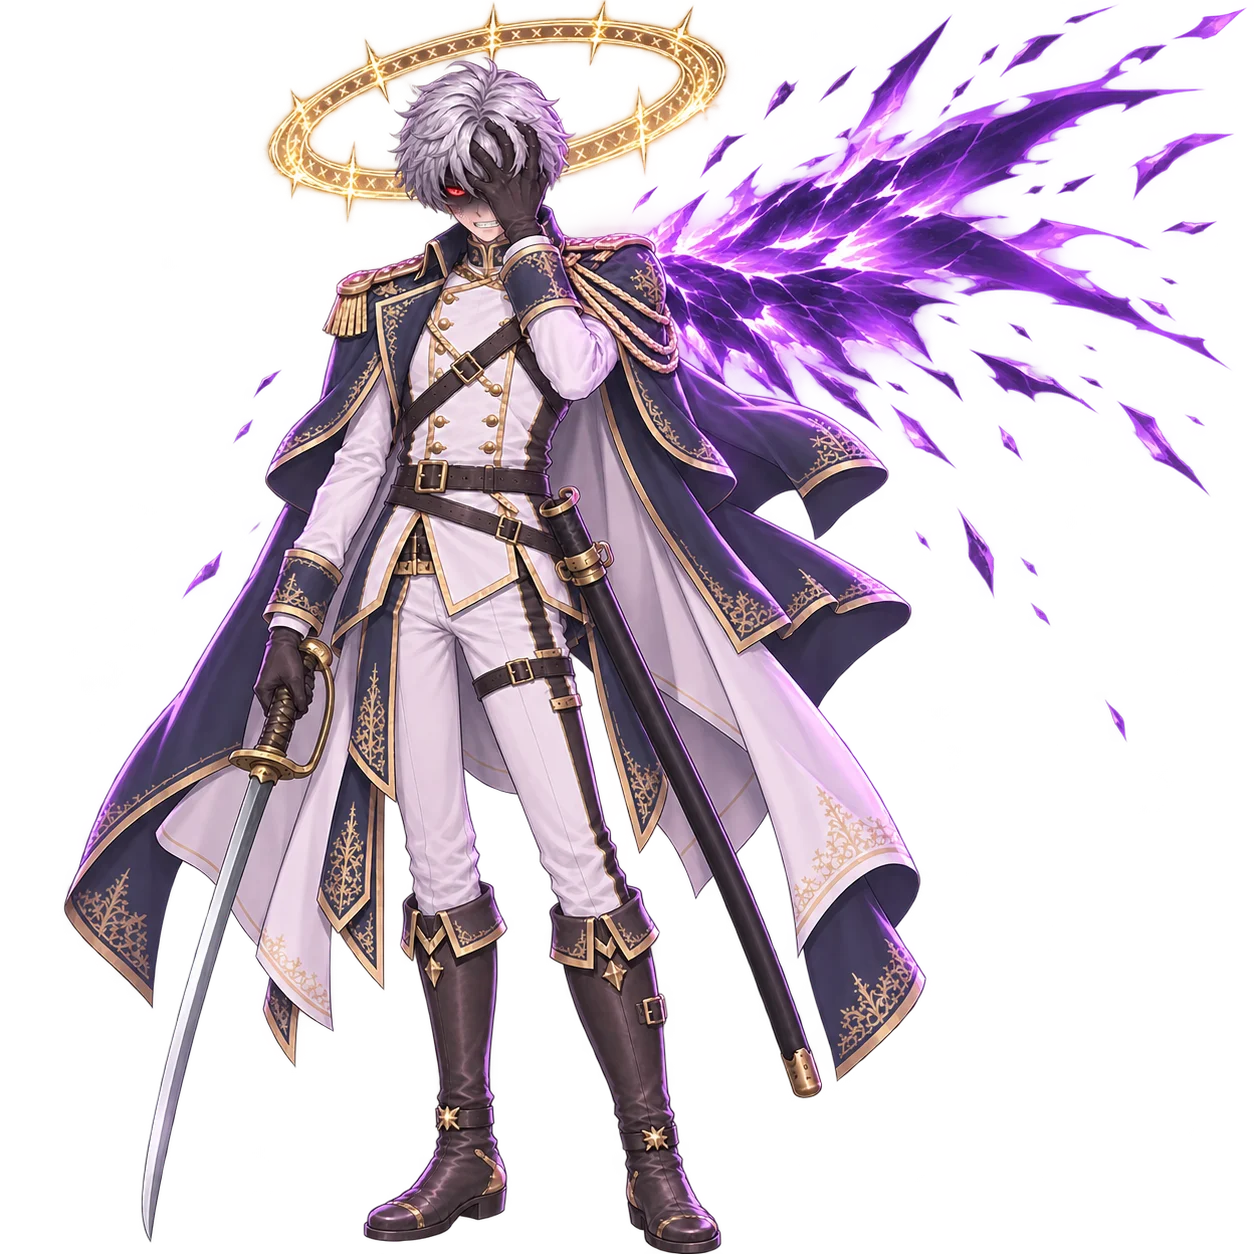
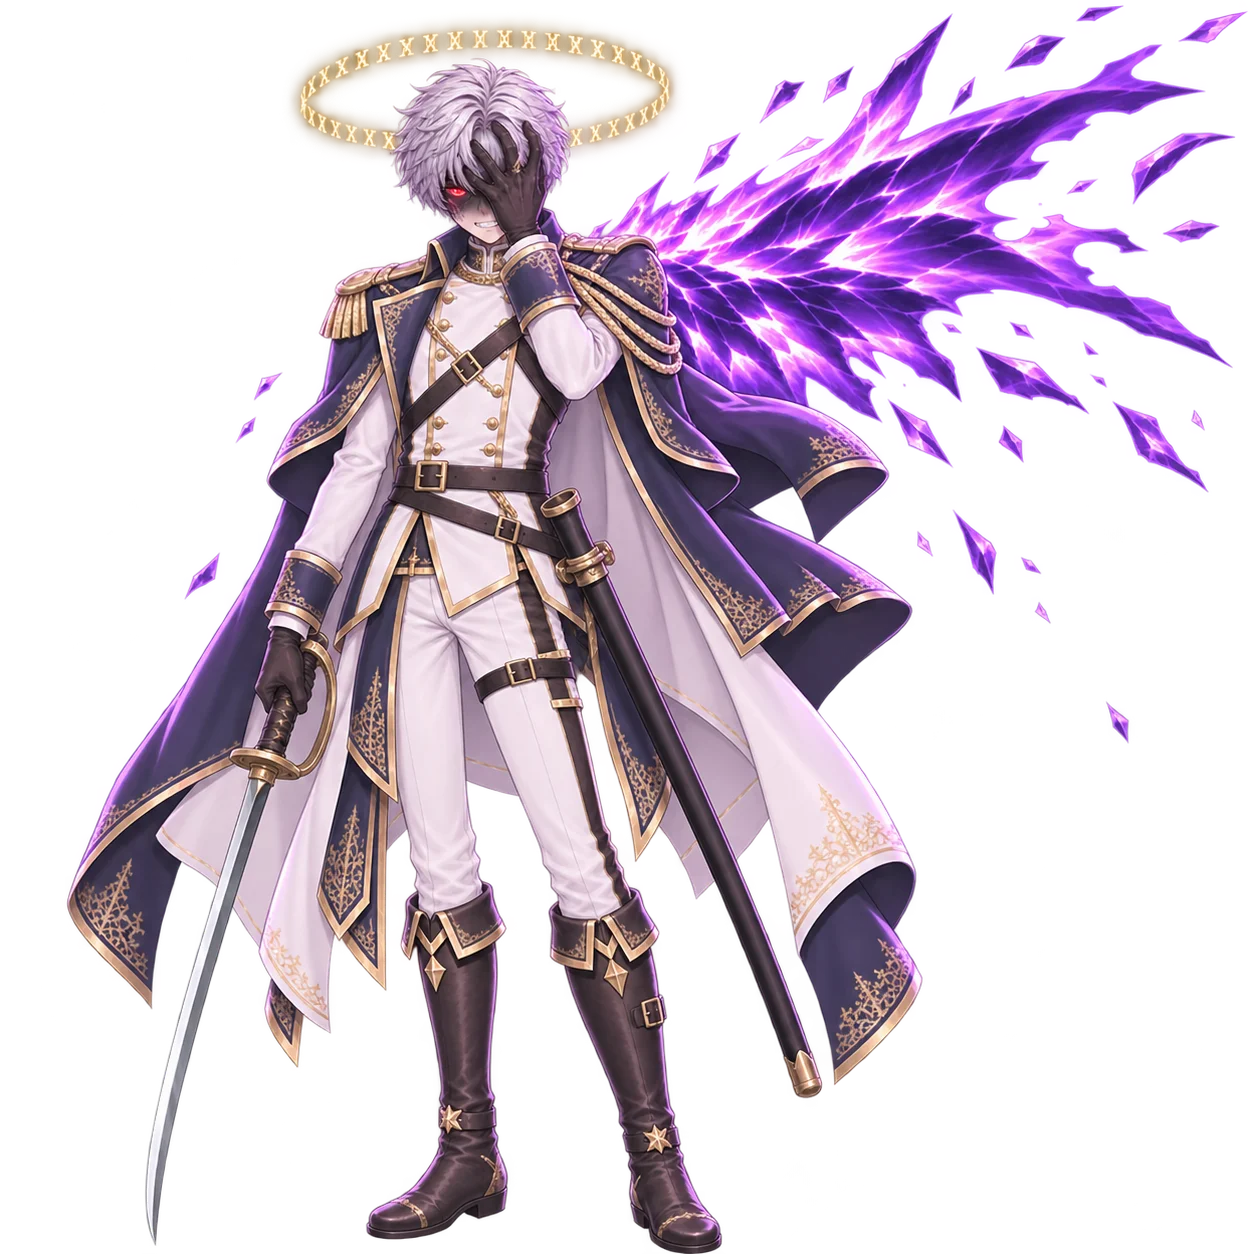
ver -2359 米夏 暴走：法環改成符文構成的天使環（照 NI CI）

diff --git a/index.html b/index.html
@@ -16,7 +16,7 @@
 <link rel="apple-touch-icon" href="resources/background/tivot_emblem.png?v=9220f8bb">
 <title>TIVOT</title>
 <!-- 全域鎖直向（真鎖 + 橫向擋板）；classic script，需在版面就緒前掛上 -->
-<script src="orientation.js?v=2358"></script>
+<script src="orientation.js?v=2359"></script>
 <!-- 離線包（ver -2256）：註冊 sw.js；主畫面 App 裡出現「下載離線包」鈕 -->
 <script src="offline.js"></script>
 <!-- ══ 效能探針・計數層（ver -850，Ray：「沒有辦法寫一個偵測程式進去看是什麼
@@ -65,74 +65,74 @@
 <script type="importmap">
 {
   "imports": {
-    "./audio.js": "./audio.js?v=2358",
-    "./config.js": "./config.js?v=2358",
-    "./i18n.js": "./i18n.js?v=2358",
-    "./main.js": "./main.js?v=2358",
-    "./offline.js": "./offline.js?v=2358",
-    "./orientation.js": "./orientation.js?v=2358",
-    "./state.js": "./state.js?v=2358",
-    "./sw.js": "./sw.js?v=2358",
-    "./telemetry.js": "./telemetry.js?v=2358",
-    "./modules/beatpick.js": "./modules/beatpick.js?v=2358",
-    "./modules/blink.js": "./modules/blink.js?v=2358",
-    "./modules/breath.js": "./modules/breath.js?v=2358",
-    "./modules/combat.js": "./modules/combat.js?v=2358",
-    "./modules/defense.js": "./modules/defense.js?v=2358",
-    "./modules/enemy.js": "./modules/enemy.js?v=2358",
-    "./modules/eyefx.js": "./modules/eyefx.js?v=2358",
-    "./modules/gear.js": "./modules/gear.js?v=2358",
-    "./modules/groundShadow.js": "./modules/groundShadow.js?v=2358",
-    "./modules/haptics.js": "./modules/haptics.js?v=2358",
-    "./modules/inn.js": "./modules/inn.js?v=2358",
-    "./modules/inspector.js": "./modules/inspector.js?v=2358",
-    "./modules/loot.js": "./modules/loot.js?v=2358",
-    "./modules/partner.js": "./modules/partner.js?v=2358",
-    "./modules/saint.js": "./modules/saint.js?v=2358",
-    "./modules/sakura.js": "./modules/sakura.js?v=2358",
-    "./modules/save.js": "./modules/save.js?v=2358",
-    "./modules/settings.js": "./modules/settings.js?v=2358",
-    "./modules/story.js": "./modules/story.js?v=2358",
-    "./modules/sway.js": "./modules/sway.js?v=2358",
-    "./modules/tone.js": "./modules/tone.js?v=2358",
-    "./modules/town.js": "./modules/town.js?v=2358",
-    "./modules/transition.js": "./modules/transition.js?v=2358",
-    "./modules/tutorial.js": "./modules/tutorial.js?v=2358",
-    "./modules/weapon.js": "./modules/weapon.js?v=2358",
-    "./script/bg_index.js": "./script/bg_index.js?v=2358",
-    "./script/blink.js": "./script/blink.js?v=2358",
-    "./script/clock.js": "./script/clock.js?v=2358",
-    "./script/enemies.js": "./script/enemies.js?v=2358",
-    "./script/evaluation.js": "./script/evaluation.js?v=2358",
-    "./script/eyefx.js": "./script/eyefx.js?v=2358",
-    "./script/inventory.js": "./script/inventory.js?v=2358",
-    "./script/loadout.js": "./script/loadout.js?v=2358",
-    "./script/mainScript.js": "./script/mainScript.js?v=2358",
-    "./script/progress.js": "./script/progress.js?v=2358",
-    "./script/shopcards.js": "./script/shopcards.js?v=2358",
-    "./script/shopstock.js": "./script/shopstock.js?v=2358",
-    "./script/speakers.js": "./script/speakers.js?v=2358",
-    "./script/sway.js": "./script/sway.js?v=2358",
-    "./script/town.js": "./script/town.js?v=2358",
-    "./script/weapons.js": "./script/weapons.js?v=2358",
-    "./i18n/en.js": "./i18n/en.js?v=2358",
-    "./i18n/es.js": "./i18n/es.js?v=2358",
-    "./i18n/ja.js": "./i18n/ja.js?v=2358",
-    "./i18n/scriptTr.js": "./i18n/scriptTr.js?v=2358",
-    "./i18n/zh.js": "./i18n/zh.js?v=2358",
-    "./i18n/script/es.classic.js": "./i18n/script/es.classic.js?v=2358",
-    "./i18n/script/es.js": "./i18n/script/es.js?v=2358",
-    "./i18n/ui/es.classic.js": "./i18n/ui/es.classic.js?v=2358",
-    "./i18n/ui/es.js": "./i18n/ui/es.js?v=2358"
+    "./audio.js": "./audio.js?v=2359",
+    "./config.js": "./config.js?v=2359",
+    "./i18n.js": "./i18n.js?v=2359",
+    "./main.js": "./main.js?v=2359",
+    "./offline.js": "./offline.js?v=2359",
+    "./orientation.js": "./orientation.js?v=2359",
+    "./state.js": "./state.js?v=2359",
+    "./sw.js": "./sw.js?v=2359",
+    "./telemetry.js": "./telemetry.js?v=2359",
+    "./modules/beatpick.js": "./modules/beatpick.js?v=2359",
+    "./modules/blink.js": "./modules/blink.js?v=2359",
+    "./modules/breath.js": "./modules/breath.js?v=2359",
+    "./modules/combat.js": "./modules/combat.js?v=2359",
+    "./modules/defense.js": "./modules/defense.js?v=2359",
+    "./modules/enemy.js": "./modules/enemy.js?v=2359",
+    "./modules/eyefx.js": "./modules/eyefx.js?v=2359",
+    "./modules/gear.js": "./modules/gear.js?v=2359",
+    "./modules/groundShadow.js": "./modules/groundShadow.js?v=2359",
+    "./modules/haptics.js": "./modules/haptics.js?v=2359",
+    "./modules/inn.js": "./modules/inn.js?v=2359",
+    "./modules/inspector.js": "./modules/inspector.js?v=2359",
+    "./modules/loot.js": "./modules/loot.js?v=2359",
+    "./modules/partner.js": "./modules/partner.js?v=2359",
+    "./modules/saint.js": "./modules/saint.js?v=2359",
+    "./modules/sakura.js": "./modules/sakura.js?v=2359",
+    "./modules/save.js": "./modules/save.js?v=2359",
+    "./modules/settings.js": "./modules/settings.js?v=2359",
+    "./modules/story.js": "./modules/story.js?v=2359",
+    "./modules/sway.js": "./modules/sway.js?v=2359",
+    "./modules/tone.js": "./modules/tone.js?v=2359",
+    "./modules/town.js": "./modules/town.js?v=2359",
+    "./modules/transition.js": "./modules/transition.js?v=2359",
+    "./modules/tutorial.js": "./modules/tutorial.js?v=2359",
+    "./modules/weapon.js": "./modules/weapon.js?v=2359",
+    "./script/bg_index.js": "./script/bg_index.js?v=2359",
+    "./script/blink.js": "./script/blink.js?v=2359",
+    "./script/clock.js": "./script/clock.js?v=2359",
+    "./script/enemies.js": "./script/enemies.js?v=2359",
+    "./script/evaluation.js": "./script/evaluation.js?v=2359",
+    "./script/eyefx.js": "./script/eyefx.js?v=2359",
+    "./script/inventory.js": "./script/inventory.js?v=2359",
+    "./script/loadout.js": "./script/loadout.js?v=2359",
+    "./script/mainScript.js": "./script/mainScript.js?v=2359",
+    "./script/progress.js": "./script/progress.js?v=2359",
+    "./script/shopcards.js": "./script/shopcards.js?v=2359",
+    "./script/shopstock.js": "./script/shopstock.js?v=2359",
+    "./script/speakers.js": "./script/speakers.js?v=2359",
+    "./script/sway.js": "./script/sway.js?v=2359",
+    "./script/town.js": "./script/town.js?v=2359",
+    "./script/weapons.js": "./script/weapons.js?v=2359",
+    "./i18n/en.js": "./i18n/en.js?v=2359",
+    "./i18n/es.js": "./i18n/es.js?v=2359",
+    "./i18n/ja.js": "./i18n/ja.js?v=2359",
+    "./i18n/scriptTr.js": "./i18n/scriptTr.js?v=2359",
+    "./i18n/zh.js": "./i18n/zh.js?v=2359",
+    "./i18n/script/es.classic.js": "./i18n/script/es.classic.js?v=2359",
+    "./i18n/script/es.js": "./i18n/script/es.js?v=2359",
+    "./i18n/ui/es.classic.js": "./i18n/ui/es.classic.js?v=2359",
+    "./i18n/ui/es.js": "./i18n/ui/es.js?v=2359"
   }
 }
 </script>
 <!-- BUST:END -->
-<link rel="stylesheet" href="style.css?v=2358">
+<link rel="stylesheet" href="style.css?v=2359">
   <!-- 拾得道具／道具欄／商店／懸賞榜（ver -380 抽出，飛行頁共用同一份）。
        ⚠ `data-lootsheet` 是給 `modules/loot.js` 認的：它看到已經掛過就不再掛一次。
          飛行頁沒有這一行，由那支模組自己掛上去。 -->
-  <link rel="stylesheet" href="css/lootsheet.css?v=2358" data-lootsheet="1">
+  <link rel="stylesheet" href="css/lootsheet.css?v=2359" data-lootsheet="1">
 <!-- 主畫面 App（standalone）偵測：首繪前在 <html> 蓋 .standalone，
      供 CSS 修 iOS 26 版面視窗少算頂部安全區高度（底部露黑帶）的問題 -->
 <script>
@@ -778,6 +778,6 @@
      ⚠ src 是**按下去才給**的（lazy）：不然每次開機都要多載一整個飛行頁。 -->
 <iframe id="flightFrame" title="飛行"></iframe>
 
-<script type="module" src="main.js?v=2358"></script>
+<script type="module" src="main.js?v=2359"></script>
 </body>
 </html>

diff --git a/flight/index.html b/flight/index.html
@@ -3,7 +3,7 @@
 <head>
 <meta charset="utf-8">
 <meta name="viewport" content="width=device-width,initial-scale=1,maximum-scale=1,user-scalable=no,viewport-fit=cover">
-<script src="../orientation.js?v=2358"></script>
+<script src="../orientation.js?v=2359"></script>
 <script>
 /* 介面字譯文（ver -1909）：這一頁是非模組，程式一開跑就讀字串 —— 所以譯文表要**同步**載
    （document.write，只在選了有譯文的語言時）。語言判定與 i18n.js 的 LANG 同一套
@@ -11,7 +11,7 @@
 (function(){
   var l=null; try{ l=localStorage.getItem('tivot.lang'); }catch(e){}
   if(!l){ try{ var n=(navigator.languages&&navigator.languages[0])||navigator.language||''; if(String(n).toLowerCase().indexOf('es')===0) l='es'; }catch(e){} }
-  if(['es'].indexOf(l)>=0) document.write('<script src="../i18n/script/'+l+'.classic.js?v=2358"><\/script><script src="../i18n/ui/'+l+'.classic.js?v=2358"><\/script>');
+  if(['es'].indexOf(l)>=0) document.write('<script src="../i18n/script/'+l+'.classic.js?v=2359"><\/script><script src="../i18n/ui/'+l+'.classic.js?v=2359"><\/script>');
 })();
 function i18nT(s){ var t=window.__TIVOT_TR; return (t && typeof s==='string' && t[s]!=null) ? t[s] : s; }
 document.addEventListener('DOMContentLoaded', function(){
@@ -236,7 +236,7 @@ document.addEventListener('DOMContentLoaded', function(){
   /* ver -2217：門圖含楣（kerberos_gate，＝主遊戲同一張）—— 底圖往上延伸到楣的上緣（--fk-gate-top，負值，layoutFKerb 寫）。
      畫在 ::before：門的子元素（紋章／箭／鉚釘）排在它之後，自然疊在上面。 */
   #fkerbDoor::before{content:'';position:absolute;left:0;right:0;top:var(--fk-gate-top,0px);bottom:0;
-    background-image:url('../resources/vfx/kerberos_gate.webp?v=2358');
+    background-image:url('../resources/vfx/kerberos_gate.webp?v=2359');
     background-repeat:no-repeat;background-size:100% 100%;pointer-events:none;}
   #fkerb.rise #fkerbDoor{transform:translateY(calc(var(--fkerb-rise,0px) * -1));}
   /* 楣與其餘零件：全部是門的子元素＝同一剛體，門上推它們跟著上去
@@ -259,8 +259,8 @@ document.addEventListener('DOMContentLoaded', function(){
       radial-gradient(circle at 50% 22%, rgba(0,0,0,.72) 40%, rgba(0,0,0,0) 78%);
     box-shadow:inset 0 3px 7px rgba(0,0,0,.85);}
   #fkerbGear .fkg-shine{position:absolute;inset:0;mix-blend-mode:screen;opacity:.8;
-    -webkit-mask-image:url("../resources/vfx/kerberos_gear.webp?v=2358");
-    mask-image:url("../resources/vfx/kerberos_gear.webp?v=2358");
+    -webkit-mask-image:url("../resources/vfx/kerberos_gear.webp?v=2359");
+    mask-image:url("../resources/vfx/kerberos_gear.webp?v=2359");
     -webkit-mask-size:100% 100%;mask-size:100% 100%;
     -webkit-mask-repeat:no-repeat;mask-repeat:no-repeat;
     background:linear-gradient(114deg,
@@ -280,8 +280,8 @@ document.addEventListener('DOMContentLoaded', function(){
     filter:drop-shadow(0 3px 7px rgba(0,0,0,.9)) drop-shadow(0 0 2px rgba(0,0,0,.8));}
   #fkerbPend .fkp-shine{position:absolute;inset:0;pointer-events:none;
     mix-blend-mode:screen;opacity:.85;
-    -webkit-mask-image:url("../resources/vfx/kerberos_pendant.webp?v=2358");
-    mask-image:url("../resources/vfx/kerberos_pendant.webp?v=2358");
+    -webkit-mask-image:url("../resources/vfx/kerberos_pendant.webp?v=2359");
+    mask-image:url("../resources/vfx/kerberos_pendant.webp?v=2359");
     -webkit-mask-size:100% 100%;mask-size:100% 100%;
     -webkit-mask-repeat:no-repeat;mask-repeat:no-repeat;
     background:linear-gradient(114deg,
@@ -646,23 +646,23 @@ img:not([src]), img[src=""], img.img-broken{visibility:hidden !important;}
        ⚠ 要有，否則交棒那一格齒輪會憑空冒出來（同吊墜的理由）。
        ⚠ 排在 `.fk-plate` 之前 ＝ 團徽之下、槍棺之上。 -->
   <div id="fkerbGear"><i class="fkg-well"></i>
-    <img src="../resources/vfx/kerberos_gear.webp?v=2358" alt=""><i class="fkg-shine"></i></div>
+    <img src="../resources/vfx/kerberos_gear.webp?v=2359" alt=""><i class="fkg-shine"></i></div>
   <div id="fkerbGearSm"><i class="fkg-well"></i>
-    <img src="../resources/vfx/kerberos_gear.webp?v=2358" alt=""></div>
-  <img class="fk-plate" src="../resources/vfx/kerberos_plate.webp?v=2358" alt="">
-  <img class="fk-arrow n" src="../resources/vfx/kerberos_arrow.webp?v=2358" alt="">
-  <img class="fk-arrow e" src="../resources/vfx/kerberos_arrow.webp?v=2358" alt="">
-  <img class="fk-arrow s" src="../resources/vfx/kerberos_arrow.webp?v=2358" alt="">
-  <img class="fk-arrow w" src="../resources/vfx/kerberos_arrow.webp?v=2358" alt="">
-  <img class="fk-rivet r10" src="../resources/vfx/kerberos_rivet.webp?v=2358" alt="">
-  <img class="fk-rivet r2"  src="../resources/vfx/kerberos_rivet.webp?v=2358" alt="">
-  <img class="fk-rivet r4"  src="../resources/vfx/kerberos_rivet.webp?v=2358" alt="">
-  <img class="fk-rivet r8"  src="../resources/vfx/kerberos_rivet.webp?v=2358" alt="">
+    <img src="../resources/vfx/kerberos_gear.webp?v=2359" alt=""></div>
+  <img class="fk-plate" src="../resources/vfx/kerberos_plate.webp?v=2359" alt="">
+  <img class="fk-arrow n" src="../resources/vfx/kerberos_arrow.webp?v=2359" alt="">
+  <img class="fk-arrow e" src="../resources/vfx/kerberos_arrow.webp?v=2359" alt="">
+  <img class="fk-arrow s" src="../resources/vfx/kerberos_arrow.webp?v=2359" alt="">
+  <img class="fk-arrow w" src="../resources/vfx/kerberos_arrow.webp?v=2359" alt="">
+  <img class="fk-rivet r10" src="../resources/vfx/kerberos_rivet.webp?v=2359" alt="">
+  <img class="fk-rivet r2"  src="../resources/vfx/kerberos_rivet.webp?v=2359" alt="">
+  <img class="fk-rivet r4"  src="../resources/vfx/kerberos_rivet.webp?v=2359" alt="">
+  <img class="fk-rivet r8"  src="../resources/vfx/kerberos_rivet.webp?v=2359" alt="">
   <!-- 吊墜（ver -412）：與主遊戲同一套（見 index.html 的 #kerbPend 與 style.css）。
        ⚠ 這一頁**必須也有** —— 遭遇時門是在這裡推上來的，交棒之後主遊戲那一半才接手；
          只有一邊掛吊墜的話，交棒那一格會憑空多出一個東西。 -->
   <div id="fkerbPend"><div class="fkp-swing"><div class="fkp-idle">
-    <img src="../resources/vfx/kerberos_pendant.webp?v=2358" alt=""><i class="fkp-shine"></i>
+    <img src="../resources/vfx/kerberos_pendant.webp?v=2359" alt=""><i class="fkp-shine"></i>
   </div></div></div>
 </div></div>
 <div id="boot">
@@ -684,11 +684,11 @@ img:not([src]), img[src=""], img.img-broken{visibility:hidden !important;}
   <div id="bMsg"><small id="bootMsg"></small></div>
 </div>
 
-<script src="settlement.js?v=2358"></script>
+<script src="settlement.js?v=2359"></script>
 <!-- 閒聊對話的**內容**獨立成一支：方便加台詞、加觸發條件而不必碰引擎。
      ⚠ 一般 <script>（非 module）→ TALKS / talkPeriod / talkPick 是全域，
        而且會在下面這段 inline 之前執行完，所以 inline 內可以直接用。 -->
-<script src="talks.js?v=2358"></script>
+<script src="talks.js?v=2359"></script>
 <script>
 /* 破圖框一律不畫（ver -1881，同主頁 main.js 那一支，這一頁是另一個 document）。 */
 document.addEventListener('error', e=>{ const t=e.target; if(t && t.tagName==='IMG') t.classList.add('img-broken'); }, true);
@@ -764,7 +764,7 @@ const COLOR_URL  = 'silvermoon_terrain.png?v=b18827be'  + TERRAIN_V;
    以前是手寫的，於是從 -911 起就沒有人記得動它 —— 而 HUD 上的版本號正是 Ray
    在手機上確認「我現在跑的是哪一版」的唯一依據（鐵律 7：一個量一個計算點；
    ver -626：版本號不動就等於沒有版本號）。**不要手改。** */
-const FLIGHT_VER = 'ver -2358';
+const FLIGHT_VER = 'ver -2359';
 const MAP_SCALE  = 20;
 const INV_SCALE  = 1/MAP_SCALE;
 const PEAK_SCALE = 520;   // 高度圖 255 對應的世界高度（越大山越陡）

diff --git a/script/speakers.js b/script/speakers.js
@@ -1657,7 +1657,7 @@ export const ART = {
     draw:       { src:'resources/si/misha_si_draw.webp?v=68b1b653', top:6, bot:1534, fx:0.434 },   // ver -1728：Ray 新出的拔刀圖（姿勢換了，取景重量；美術 09-25）
     salute:     { src:'resources/si/misha_si_salute.webp', top:9, bot:1520, fx:0.447 },
     side:       { src:'resources/si/misha_si_side.webp', top:16, bot:1512, fx:0.37 },
-    '暴走':     { blink:'off', rescale:true, src:'resources/si/misha_si_coverfaceni.webp?v=5f4eb9d9', top:66, bot:1230, fx:0.364 },   // ver -2358（Ray）：陰暗抓臉定稿＋金色鏤空法環、左後方碎裂紫光翼、恨意紅光眼、臉頰裂紋（方形 1254²）；top/bot 量人不量翼與法環
+    '暴走':     { blink:'off', rescale:true, src:'resources/si/misha_si_coverfaceni.webp?v=134c251c', top:66, bot:1230, fx:0.364 },   // ver -2358（Ray）：陰暗抓臉定稿＋金色符文法環（-2359 照 NI CI）、左後方碎裂紫光翼、恨意紅光眼、臉頰裂紋（方形 1254²）；top/bot 量人不量翼與法環
     '抓臉閉嘴': { blink:'off', src:'resources/si/misha_si_coverfaceshut.webp?v=58da9959', top:8, bot:1512, fx:0.470 },   // ver -2356（Ray：「咬牙 閉嘴兩張都收」）：同抓臉（-2357 更陰暗），嘴緊閉不露牙
     '抓臉':     { blink:'off', src:'resources/si/misha_si_coverface.webp?v=754856ca', top:8, bot:1512, fx:0.470 },   // ver -2356（Ray）：front 為底；森冷銳利、咬牙、臉上半部壓陰影、冷光眼（-2357 更陰暗）；左手插髮扣臉、銀髮穿過指縫、冷眼從指縫露出；右手持畜生道長刀、長鞘掛左腰
     wound:      { fxShift:0, blink:'off', src:'resources/si/misha_si_wound.webp?v=3a49219d', top:34, bot:1499, fx:0.403 },

diff --git a/config.js b/config.js
@@ -87,7 +87,7 @@ export const HITFX = {
  *     以為是快取卡住 —— 版本號不動就等於沒有版本號）。
  *  ⚠ 它同時是**暖開機戳記的鑰匙**（main.js 的 `WARM_BOOT`）：版本一變，
  *    上一版的戳記就失效 → 下一次開機重跑完整讀取。那正是改版後該有的行為。 */
-export const VERSION = 'ver 2026.11.01-2358';
+export const VERSION = 'ver 2026.11.01-2359';
 
 /* ══ 空中怪 16 隻的戰鬥卡（ver -2268）══ 每一隻一張 `flight_<鍵>`（飛行頁 `battleIdFor` 的命名），
    內容同羽蛇那一場：船戰、艦載武器音、連射間隔 180ms。⚠ 這份鍵清單在三處：這裡／
@@ -6153,7 +6153,7 @@ export const ASSET_VER = {
   'misha_si_closeopen_closed': '658c29c2',
   'misha_si_closeopen_half': '0379d48b',
   'misha_si_coverface': '754856ca',
-  'misha_si_coverfaceni': '5f4eb9d9',
+  'misha_si_coverfaceni': '134c251c',
   'misha_si_coverfaceshut': '58da9959',
   'misha_si_draw': '68b1b653',
   'misha_si_draw_closed': 'ff69810f',

diff --git a/modules/story.js b/modules/story.js
@@ -3588,7 +3588,7 @@ const KERB_DIR='resources/vfx/';
    cache-buster（§5：檔名沒變、內容變了，瀏覽器照樣拿舊的那一份，而症狀只是
    「看起來沒變」）。版本號由 `tools/bust.py` 同步，路徑只由 `kerbUrl()` 組（鐵律 8）——
    飛行頁那一半是另一個 document，各有一份，改一邊要改另一邊。 */
-const KERB_V='?v=2358';
+const KERB_V='?v=2359';
 const kerbUrl=n=>KERB_DIR+n+'.webp'+KERB_V;
 /* 門的圖（ver -2218）：**每一道門都要先載完**（劇情讀取頁 `preloadStory`、城鎮那道 `loadScene`）——
    Ray：「讀圖的時候先跑槍棺出來才讀楣」「往上推的時候楣會消失」：合成後的 `kerberos_gate`（門＋楣）
